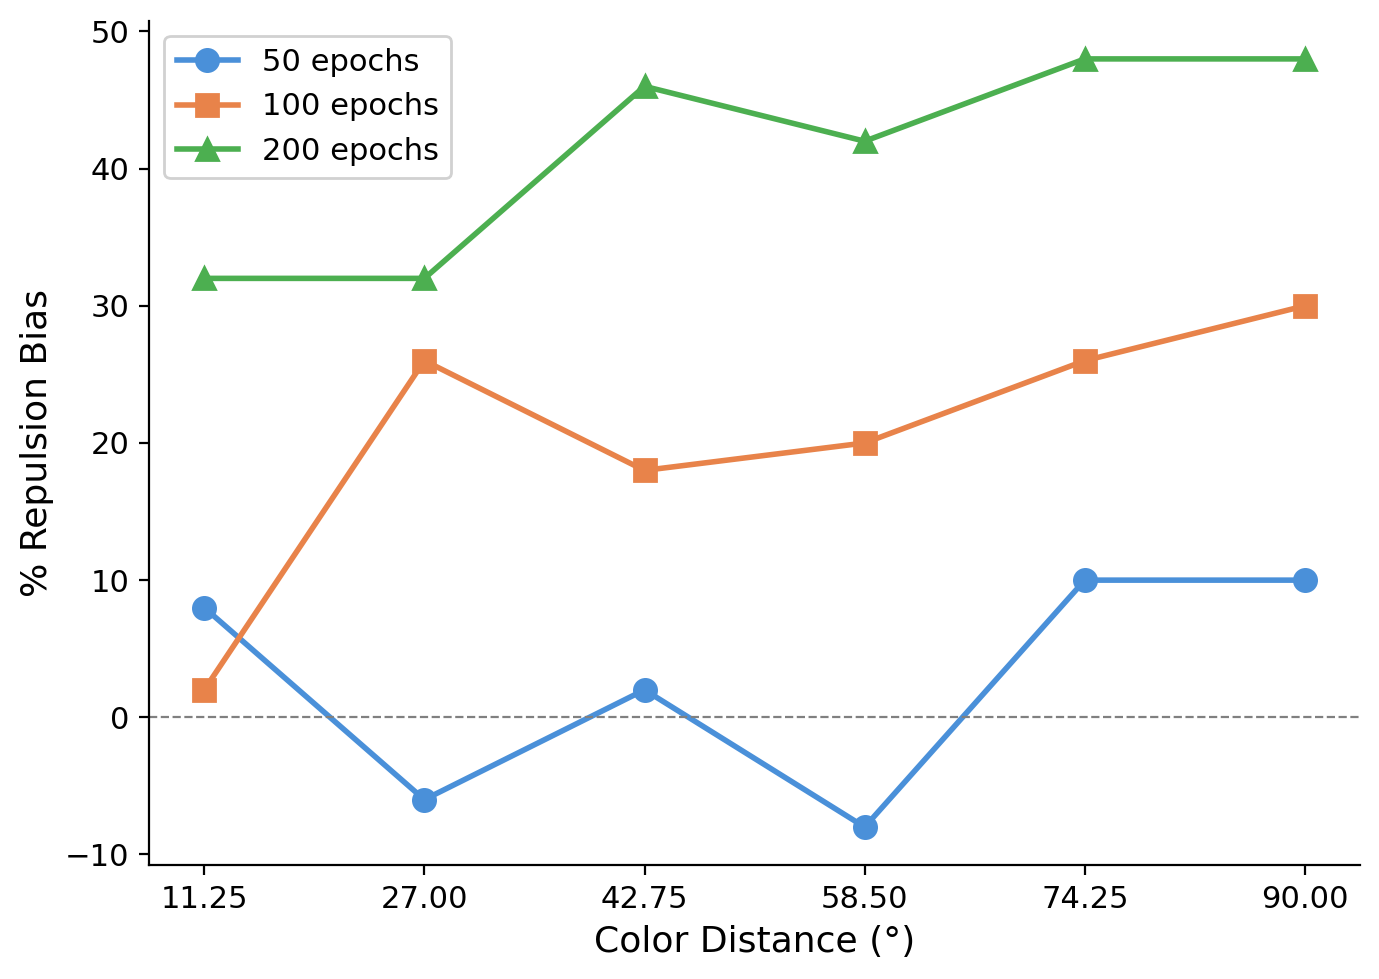
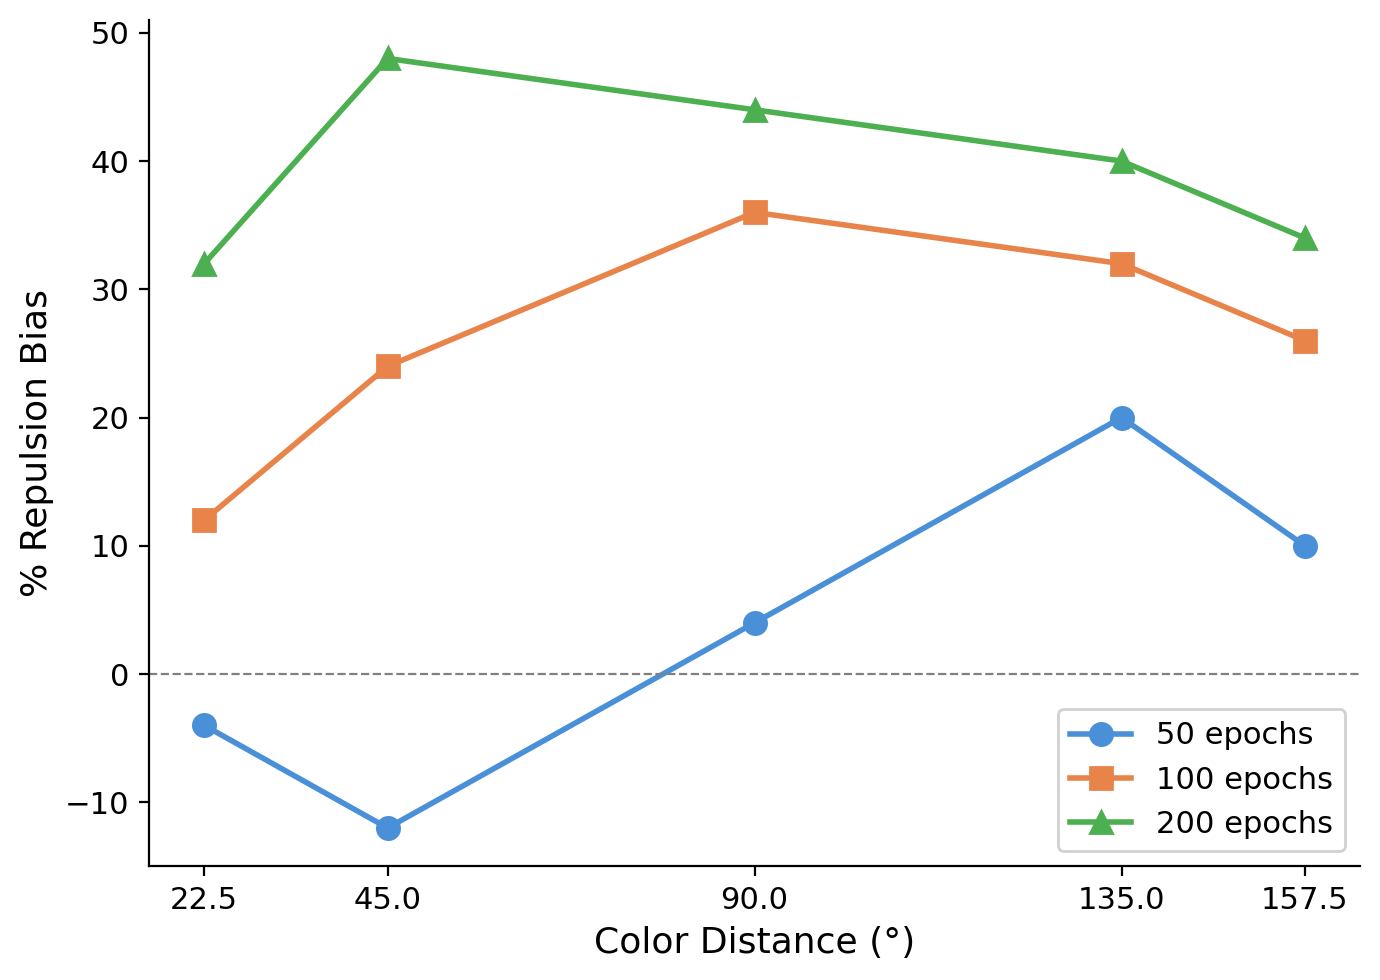
retrocue set size effect

diff --git a/src/validation_retrocue_setsize.py b/src/validation_retrocue_setsize.py
@@ -1,0 +1,196 @@
+"""
+Retrocue × Set-Size experiment: does the retrocue benefit grow with set size?
+
+Empirical finding (e.g., Souza & Oberauer, 2016; Gunseli et al., 2015):
+    The retrocue benefit (neutral MAE − cued MAE) is larger at set size 4
+    than at set size 2, because more items compete for limited resources
+    and selective cueing therefore confers a greater advantage.
+
+This script runs paired neutral vs cued trials at each set size and
+compares the resulting retrocue benefits.
+"""
+
+import os
+import copy
+import numpy as np
+import pandas as pd
+from scipy import stats
+from tqdm import trange
+import matplotlib.pyplot as plt
+
+import generator
+from simulation import load_config, run_simulation_trial, retrieve_color
+
+SAVE_DIR = os.path.join(os.path.dirname(__file__), "..", "visualizations")
+os.makedirs(SAVE_DIR, exist_ok=True)
+
+SET_SIZES = [2, 4]
+N_TRIALS = 50
+MAINTENANCE_EPOCHS = 100
+
+
+def run_retrocue_setsize_experiment():
+    base_config = load_config(filename="config_retrocue.yaml")
+    base_config["training"]["maintenance_epochs"] = MAINTENANCE_EPOCHS
+    base_config["experiment"]["n_trials"] = N_TRIALS
+
+    rows = []
+    per_trial = {}  # set_size -> dict with trial-level arrays
+
+    for ss in SET_SIZES:
+        cfg = copy.deepcopy(base_config)
+
+        cued_errors = []
+        neutral_errors = []
+
+        print(f"\n{'='*55}")
+        print(f"  Set Size = {ss}")
+        print(f"{'='*55}")
+
+        for t in trange(N_TRIALS, desc=f"N={ss}"):
+            seed = base_config["experiment"]["random_seed"] + t
+            items = generator.generate_items(ss, seed=seed)
+            probed_idx = np.random.RandomState(seed).randint(0, ss)
+
+            # Neutral (no cue)
+            model_n, _, _ = run_simulation_trial(items, cfg, cued_item_idx=None)
+            neutral_err = abs(
+                retrieve_color(model_n, items[probed_idx][0], items[probed_idx][1])
+            )
+            neutral_errors.append(neutral_err)
+
+            # Cued (retrocue to probed item)
+            model_c, _, _ = run_simulation_trial(items, cfg, cued_item_idx=probed_idx)
+            cued_err = abs(
+                retrieve_color(model_c, items[probed_idx][0], items[probed_idx][1])
+            )
+            cued_errors.append(cued_err)
+
+        benefit = np.array(neutral_errors) - np.array(cued_errors)
+        t_stat, p_val = stats.ttest_rel(neutral_errors, cued_errors)
+
+        row = {
+            "set_size": ss,
+            "neutral_mae": np.mean(neutral_errors),
+            "neutral_sem": stats.sem(neutral_errors),
+            "cued_mae": np.mean(cued_errors),
+            "cued_sem": stats.sem(cued_errors),
+            "benefit_mean": np.mean(benefit),
+            "benefit_sem": stats.sem(benefit),
+            "t_stat": t_stat,
+            "p_val": p_val,
+        }
+        rows.append(row)
+        per_trial[ss] = {"neutral": neutral_errors, "cued": cued_errors, "benefit": benefit}
+
+        print(f"  Neutral MAE  = {row['neutral_mae']:.2f} ± {row['neutral_sem']:.2f}")
+        print(f"  Cued MAE     = {row['cued_mae']:.2f} ± {row['cued_sem']:.2f}")
+        print(f"  Benefit      = {row['benefit_mean']:.2f} ± {row['benefit_sem']:.2f}")
+        print(f"  Paired t-test: t = {t_stat:.3f}, p = {p_val:.4e}")
+
+    df = pd.DataFrame(rows)
+
+    # Compare benefits across set sizes (independent-samples t-test)
+    b2 = per_trial[2]["benefit"]
+    b4 = per_trial[4]["benefit"]
+    t_cross, p_cross = stats.ttest_ind(b4, b2, alternative="greater")
+    print(f"\n{'='*55}")
+    print("  Cross-condition comparison (SS4 benefit > SS2 benefit)")
+    print(f"  t = {t_cross:.3f}, p = {p_cross:.4e}")
+    print(f"{'='*55}")
+
+    df_meta = pd.DataFrame([{
+        "comparison": "SS4_benefit > SS2_benefit",
+        "t_stat": t_cross,
+        "p_val": p_cross,
+    }])
+
+    csv_path = os.path.join(SAVE_DIR, "retrocue_setsize_results.csv")
+    df.to_csv(csv_path, index=False)
+    meta_path = os.path.join(SAVE_DIR, "retrocue_setsize_comparison.csv")
+    df_meta.to_csv(meta_path, index=False)
+    print(f"\nResults saved to {csv_path}")
+    print(f"Comparison saved to {meta_path}")
+
+    plot_retrocue_setsize(df, p_cross)
+    return df
+
+
+def plot_retrocue_setsize(df: pd.DataFrame, p_cross: float):
+    fig, axes = plt.subplots(1, 2, figsize=(12, 5))
+
+    # ── Panel A: Neutral vs Cued grouped bars per set size ──
+    ax = axes[0]
+    x = np.arange(len(df))
+    w = 0.32
+
+    ax.bar(
+        x - w / 2, df["neutral_mae"], w,
+        yerr=df["neutral_sem"], capsize=4,
+        label="Neutral", color="#E8834A", edgecolor="black",
+    )
+    ax.bar(
+        x + w / 2, df["cued_mae"], w,
+        yerr=df["cued_sem"], capsize=4,
+        label="Cued", color="#4A90D9", edgecolor="black",
+    )
+
+    ax.set_xticks(x)
+    ax.set_xticklabels([f"N = {int(r)}" for r in df["set_size"]], fontsize=12)
+    ax.set_xlabel("Set Size", fontsize=13)
+    ax.set_ylabel("Mean Absolute Error (°)", fontsize=13)
+    ax.set_title("Neutral vs Cued by Set Size", fontsize=14)
+    ax.legend(fontsize=11)
+    ax.spines["top"].set_visible(False)
+    ax.spines["right"].set_visible(False)
+
+    for i, row in df.iterrows():
+        sig = _sig_stars(row["p_val"])
+        y_top = max(row["neutral_mae"] + row["neutral_sem"],
+                    row["cued_mae"] + row["cued_sem"]) + 1
+        ax.text(i, y_top, sig, ha="center", fontsize=12, fontweight="bold")
+
+    # ── Panel B: Retrocue benefit comparison ──
+    ax2 = axes[1]
+    colors = ["#4CAF50", "#2E7D32"]
+    bars = ax2.bar(
+        np.arange(len(df)), df["benefit_mean"],
+        yerr=df["benefit_sem"], capsize=5,
+        color=colors[:len(df)], edgecolor="black", width=0.5,
+    )
+    ax2.set_xticks(np.arange(len(df)))
+    ax2.set_xticklabels([f"N = {int(r)}" for r in df["set_size"]], fontsize=12)
+    ax2.set_xlabel("Set Size", fontsize=13)
+    ax2.set_ylabel("Retrocue Benefit (°)", fontsize=13)
+    ax2.set_title("Retrocue Benefit: Larger at Higher Set Size?", fontsize=14)
+    ax2.axhline(0, color="grey", linestyle="--", linewidth=0.8)
+    ax2.spines["top"].set_visible(False)
+    ax2.spines["right"].set_visible(False)
+
+    # Significance bracket between the two bars
+    y_max = max(df["benefit_mean"] + df["benefit_sem"]) + 1.5
+    bracket_y = y_max + 0.5
+    ax2.plot([0, 0, 1, 1], [y_max, bracket_y, bracket_y, y_max],
+             color="black", linewidth=1.2)
+    ax2.text(0.5, bracket_y + 0.3, _sig_stars(p_cross),
+             ha="center", fontsize=12, fontweight="bold")
+
+    plt.tight_layout()
+    out = os.path.join(SAVE_DIR, "retrocue_setsize_benefit.png")
+    fig.savefig(out, dpi=200, bbox_inches="tight")
+    plt.close(fig)
+    print(f"Plot saved to {out}")
+
+
+def _sig_stars(p):
+    if p < 0.001:
+        return "***"
+    elif p < 0.01:
+        return "**"
+    elif p < 0.05:
+        return "*"
+    return "ns"
+
+
+if __name__ == "__main__":
+    run_retrocue_setsize_experiment()

diff --git a/src/validation_3d_bias.py b/src/validation_3d_bias.py
@@ -33,8 +33,8 @@ _DEFAULT_VIS_DIR = os.path.join(_REPO_ROOT, "visualizations")
 
 def run_3d_bias_experiment(
     config,
-    distances=(22.5, 45, 90, 135, 157.5),
-    encoding_epochs_list=(50, 100, 200),
+    distances=(0, 20, 45, 90, 135),
+    encoding_epochs_list=(25, 50, 75, 100),
     n_trials=None,
     save_dir=None,
 ):
@@ -294,8 +294,8 @@ if __name__ == "__main__":
 
     df = run_3d_bias_experiment(
         config,
-        distances=(22.5, 45, 90, 135, 157.5),
-        encoding_epochs_list=(50, 100, 200),
+        distances=(0, 20, 45, 90, 135),
+        encoding_epochs_list=(25, 50, 75, 100),
     )
 
     plot_3d_bias(df, metric="Bias_pct")
